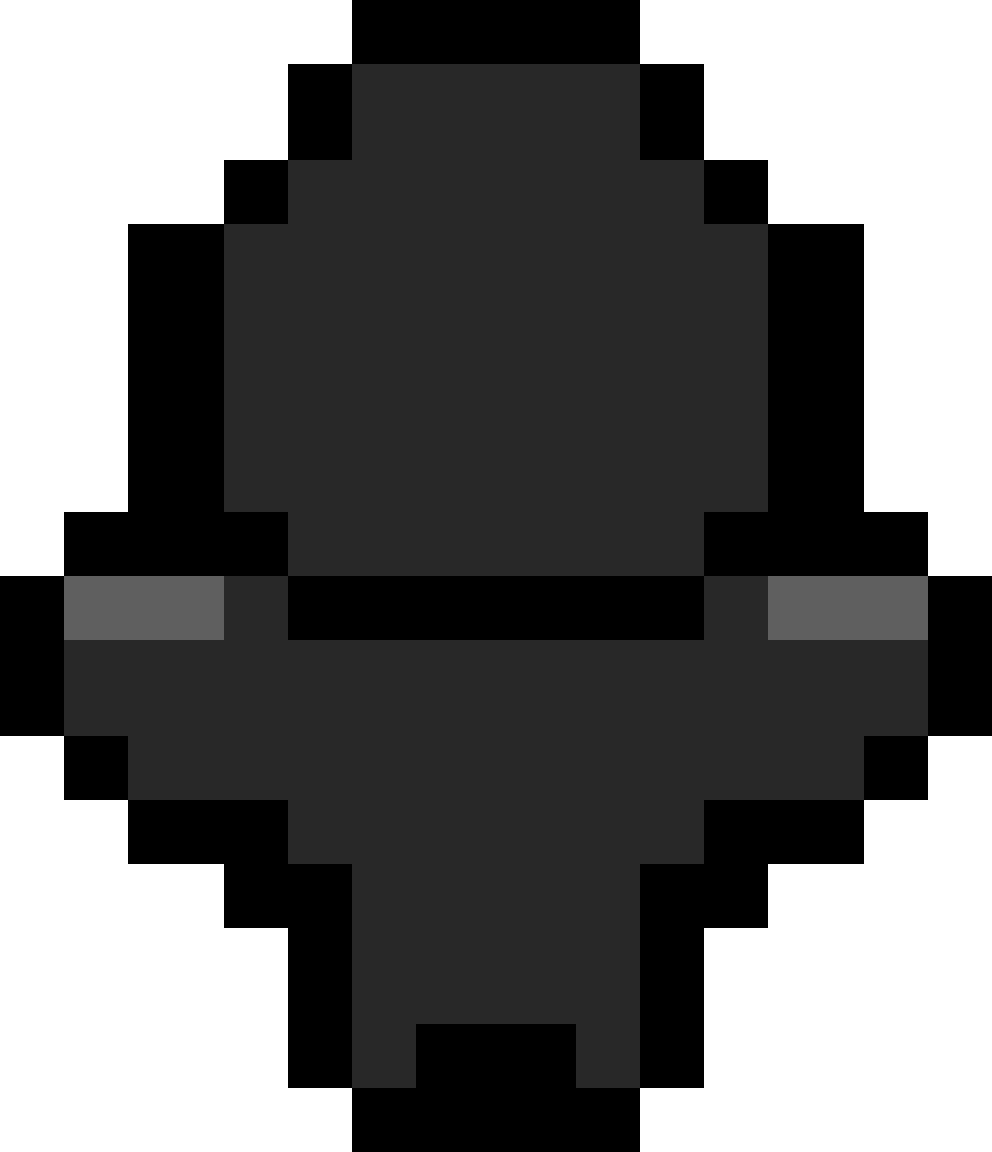
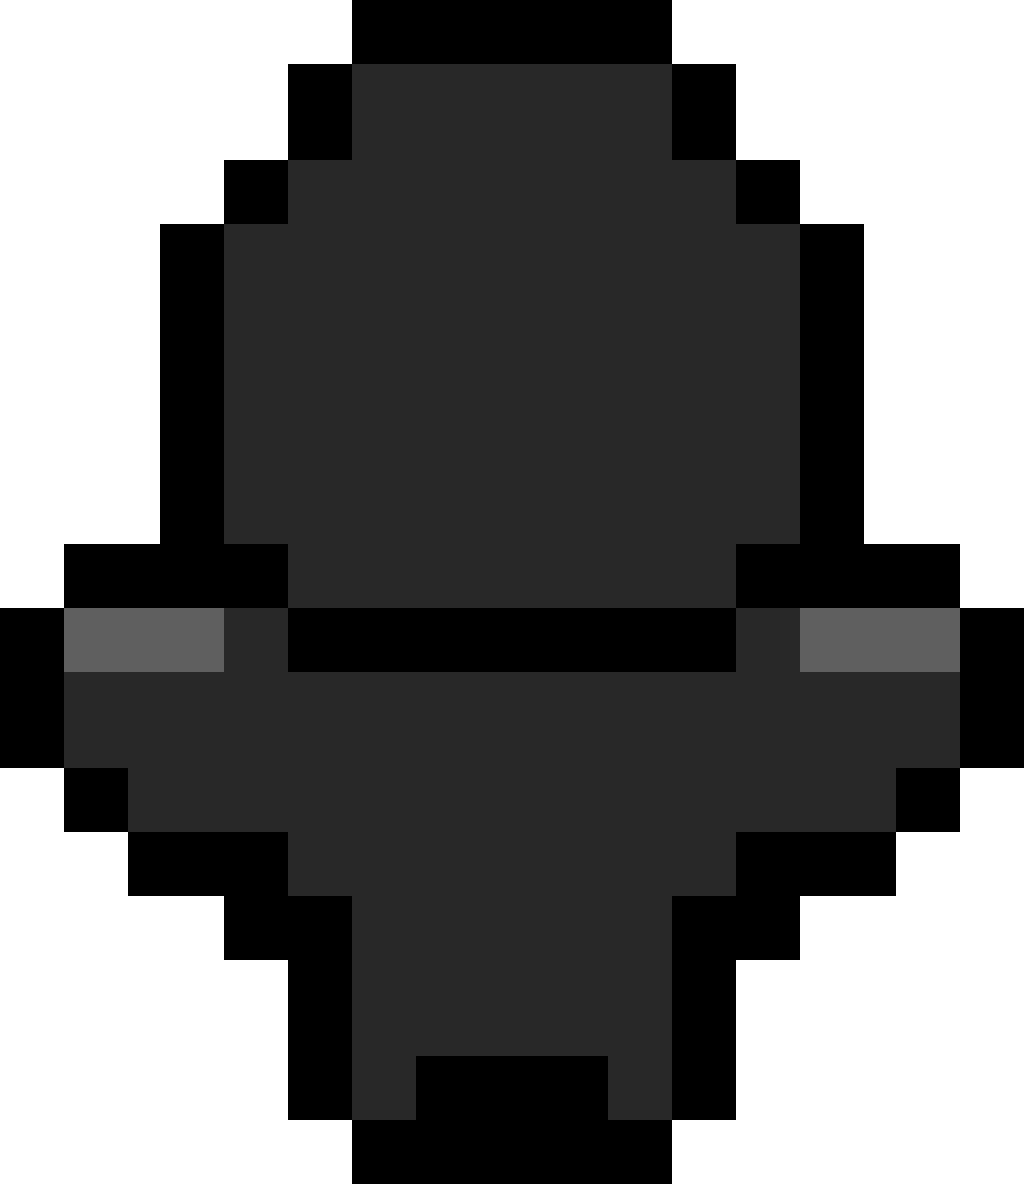
Promenio neke stvari

diff --git a/map.cpp b/map.cpp
@@ -61,7 +61,7 @@ void Map::loadTexture(void)
     int i;
     player->loadTexture("pig/pig");
     //player2->loadTexture("grim/grim");
-    player2->loadTexture("grim/grim");
+    player2->loadTexture("goo/goo");
     for(i = 0; i < this->tile.size(); i++)
         this->tile[i]->loadTexture();
     for(i = 0; i < this->enemy.size(); i++)
